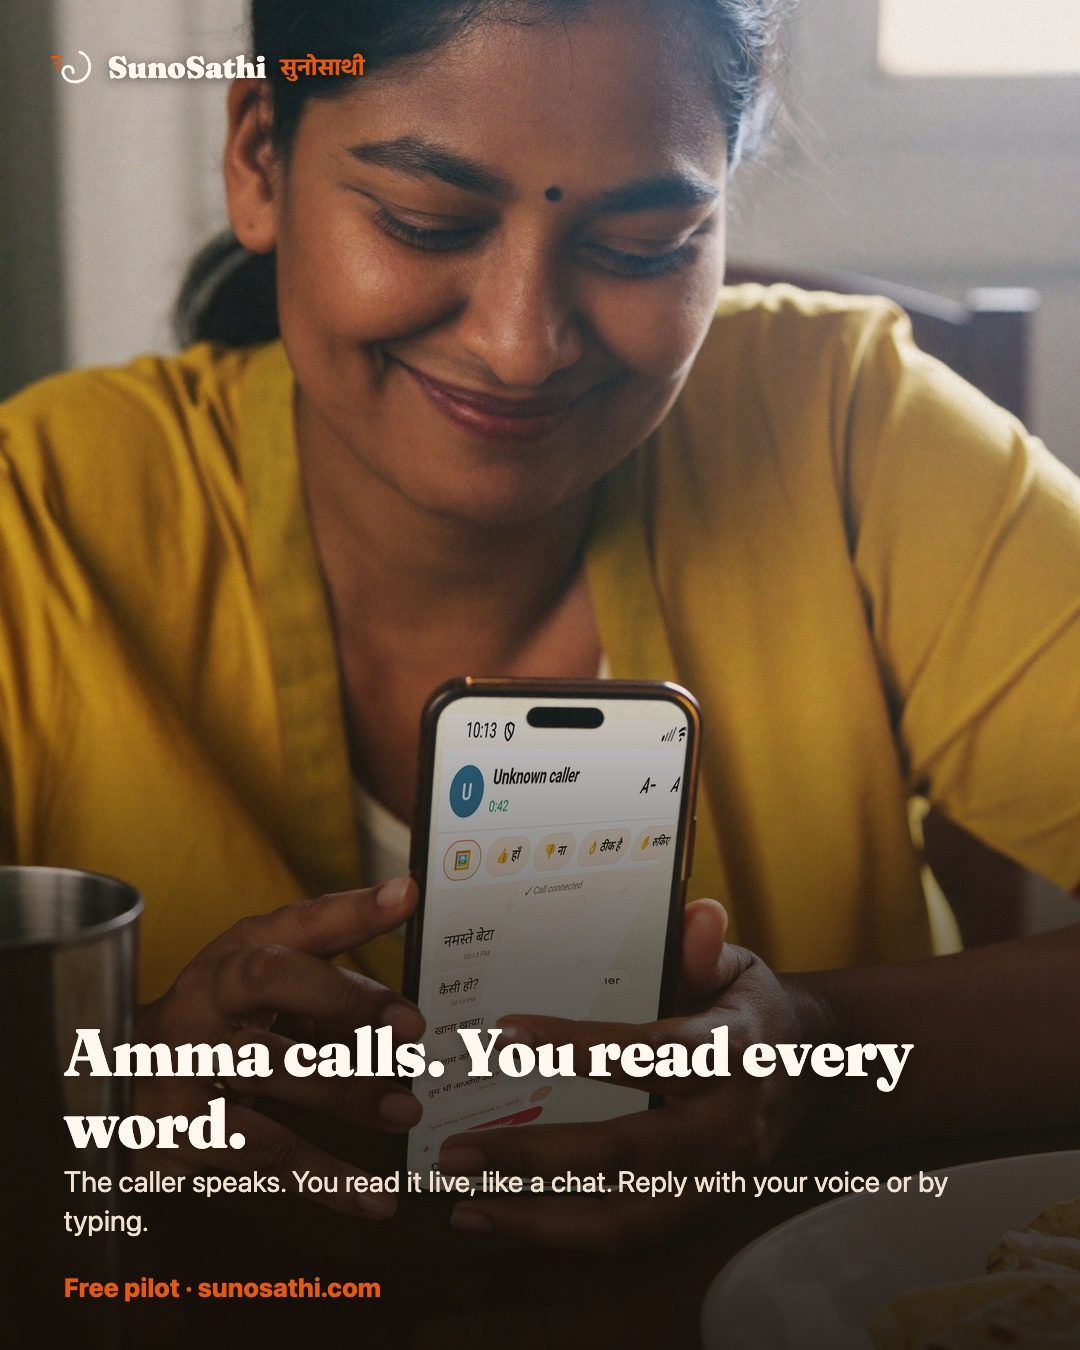
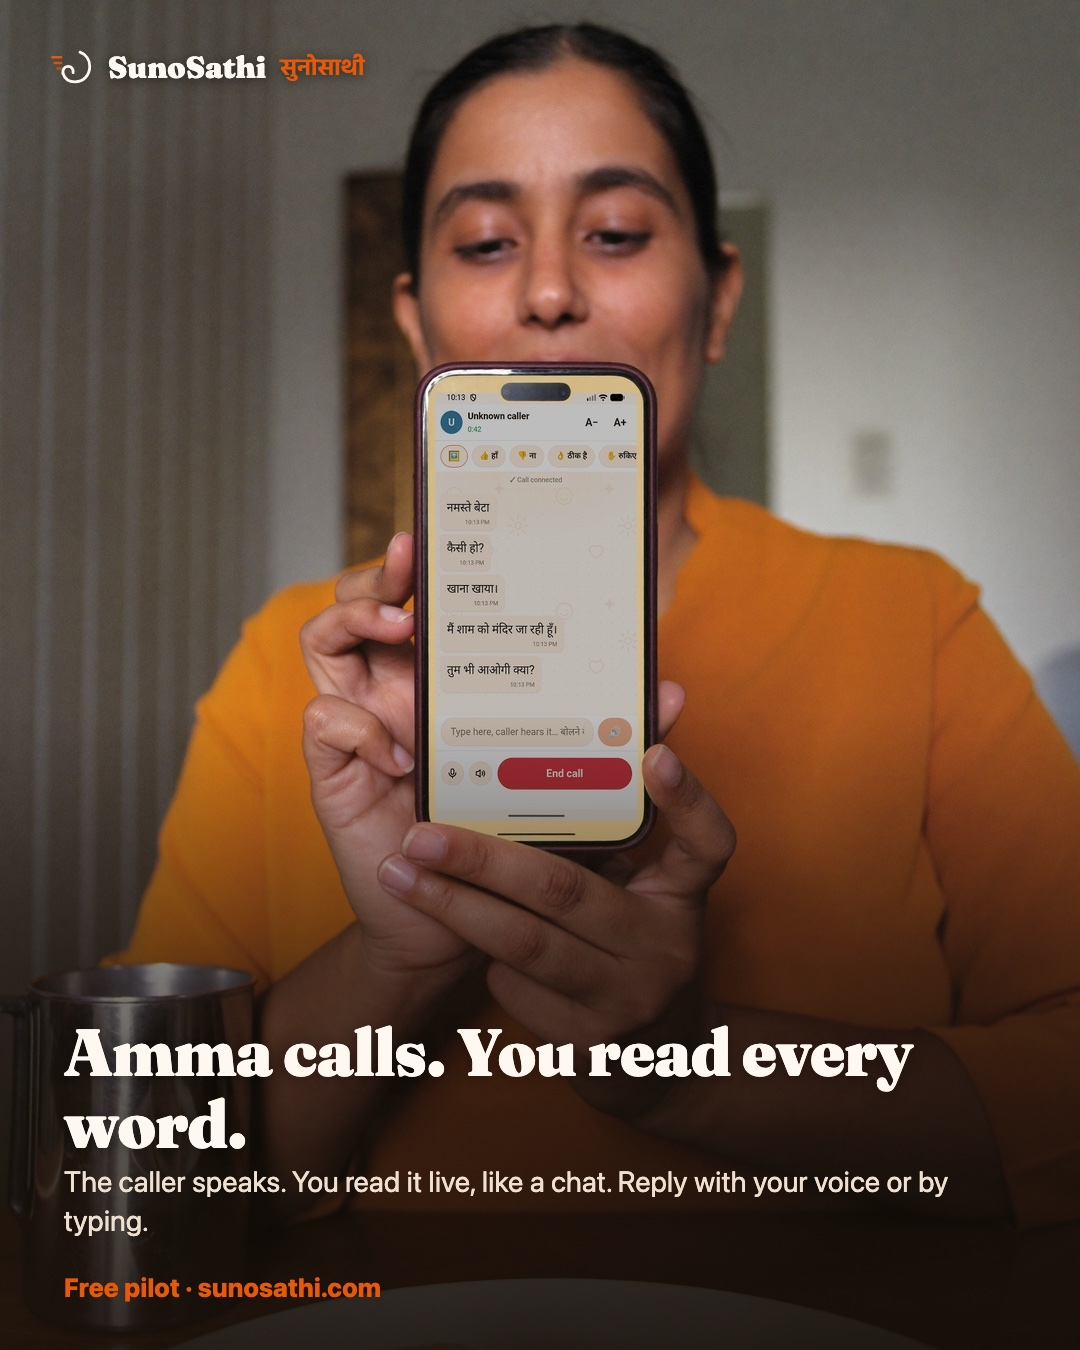
social: posts 1 and 2 reshot with the phone held straight; compositor keeps true screen proportions

diff --git a/brand/social/photos/composite-screen.py b/brand/social/photos/composite-screen.py
@@ -8,7 +8,7 @@ def box(x, r):
     c = np.cumsum(np.cumsum(np.pad(x, ((r+1, r), (r+1, r)), mode='edge'), axis=0), axis=1)
     return (c[2*r+1:, 2*r+1:] - c[:-2*r-1, 2*r+1:] - c[2*r+1:, :-2*r-1] + c[:-2*r-1, :-2*r-1]) / float((2*r+1)**2)
 r=5; m1=box(lum,r); m2=box(lum*lum,r); lstd=np.sqrt(np.maximum(m2-m1*m1,0))
-mask = (lum > 140) & (lstd < 7.0) & ((mx-mn) < 70)
+mask = (lum > 140) & (lstd < 7.0) & ((mx-mn) < 110)
 # closing to fill small fake-UI text gaps
 mi = Image.fromarray((mask*255).astype(np.uint8)).filter(ImageFilter.MaxFilter(13)).filter(ImageFilter.MinFilter(13))
 mask = np.asarray(mi) > 127
@@ -45,7 +45,21 @@ T=robust_fit(cx_,[cols[x][0] for x in cx_]); B=robust_fit(cx_,[cols[x][1] for x 
 def isect(xl, yl):  # x = xl[0]*y+xl[1] ; y = yl[0]*x+yl[1]
     # x = a1*(a2*x+b2)+b1 -> x(1-a1*a2)=a1*b2+b1
     x=(xl[0]*yl[1]+xl[1])/(1-xl[0]*yl[0]); y=yl[0]*x+yl[1]; return (x,y)
-tl=isect(L,T); tr=isect(R,T); br=isect(R,B); bl=isect(L,B)
+tl=isect(L,T); tr=isect(R,T); br0=isect(R,B); bl0=isect(L,B)
+import math
+def unit(p,q):
+    d=(q[0]-p[0],q[1]-p[1]); n=math.hypot(*d) or 1.0; return (d[0]/n,d[1]/n)
+topw=math.hypot(tr[0]-tl[0],tr[1]-tl[1])
+# expected side length from screen aspect (phone screens ~19.5:9)
+exp=topw*2.16
+dl=unit(tl,bl0); dr=unit(tr,br0)
+# side directions: average the two fitted side directions to keep the screen a clean parallelogram
+dx=(dl[0]+dr[0])/2; dy=(dl[1]+dr[1])/2; n=math.hypot(dx,dy) or 1.0; d=(dx/n,dy/n)
+fitl=math.hypot(bl0[0]-tl[0],bl0[1]-tl[1]); fitr=math.hypot(br0[0]-tr[0],br0[1]-tr[1])
+use = min(fitl,fitr)
+if abs(use-exp)/exp>0.12: use=exp
+bl=(tl[0]+d[0]*use, tl[1]+d[1]*use); br=(tr[0]+d[0]*use, tr[1]+d[1]*use)
+print('topw',int(topw),'fitted sides',int(fitl),int(fitr),'expected',int(exp),'used',int(use))
 quad=[tl,tr,br,bl]; print('quad', [(int(x),int(y)) for x,y in quad])
 scr=Image.open(screen).convert('RGB'); sw,sh=scr.size
 def coeffs(pa,pb):
@@ -59,7 +73,7 @@ warped=Image.fromarray(np.clip(np.asarray(warped).astype(np.float32)*min(1.0,scr
 # alpha: quad polygon with rounded corners, minus occluders (non-bright, non-uniform pixels inside)
 poly=Image.new('L',(W,H),0); ImageDraw.Draw(poly).polygon([(float(x),float(y)) for x,y in quad], fill=255)
 poly=poly.filter(ImageFilter.MinFilter(7)).filter(ImageFilter.GaussianBlur(1.0))
-occl = ~((lum > 120) & ((mx-mn) < 90))
+occl = ~((lum > 120) & ((mx-mn) < 130))
 occl_img = Image.fromarray((occl*255).astype(np.uint8)).filter(ImageFilter.MinFilter(9)).filter(ImageFilter.MaxFilter(15)).filter(ImageFilter.GaussianBlur(1.5))
 alpha = Image.fromarray(np.clip(np.asarray(poly).astype(np.int32) - np.asarray(occl_img).astype(np.int32),0,255).astype(np.uint8))
 Image.composite(warped, im, alpha).save(out, quality=95); print('saved', out)
